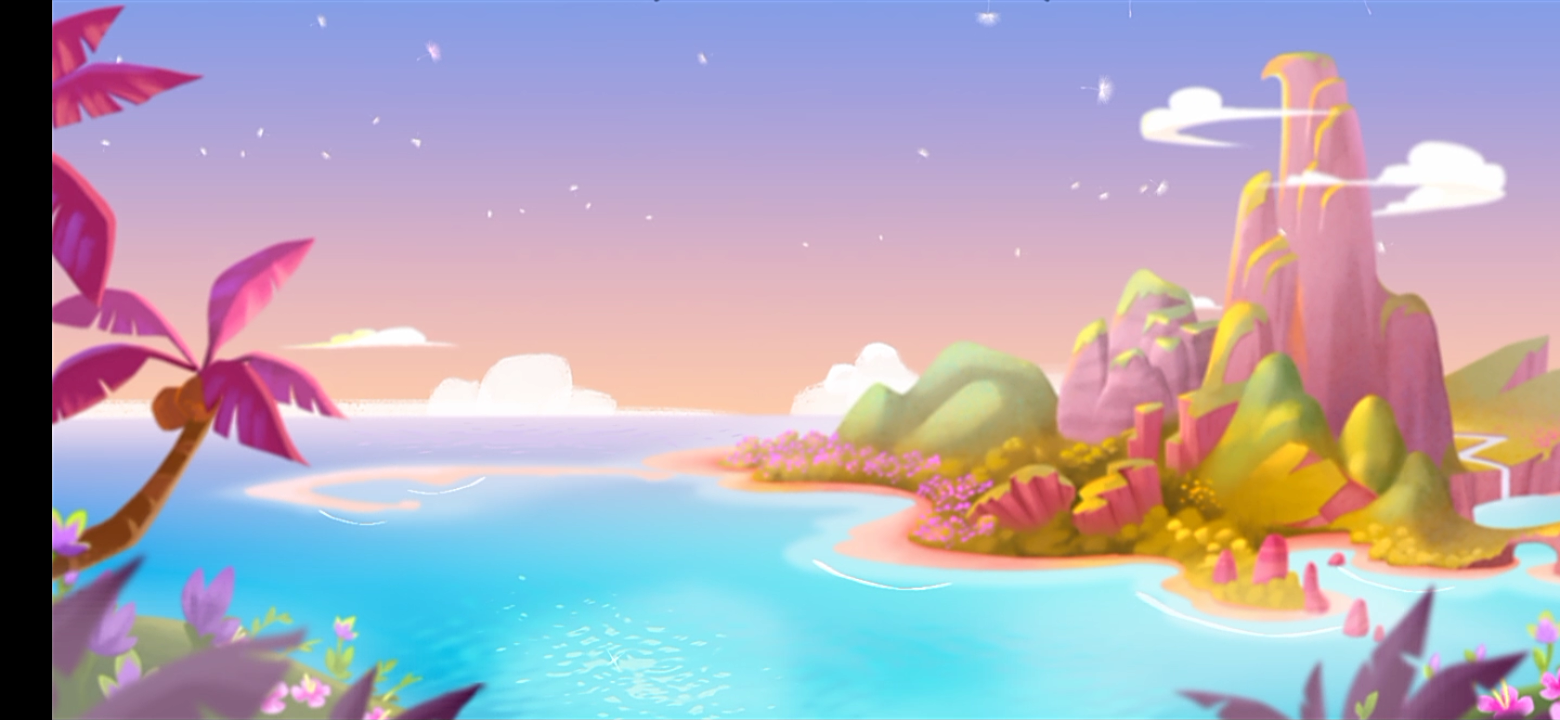
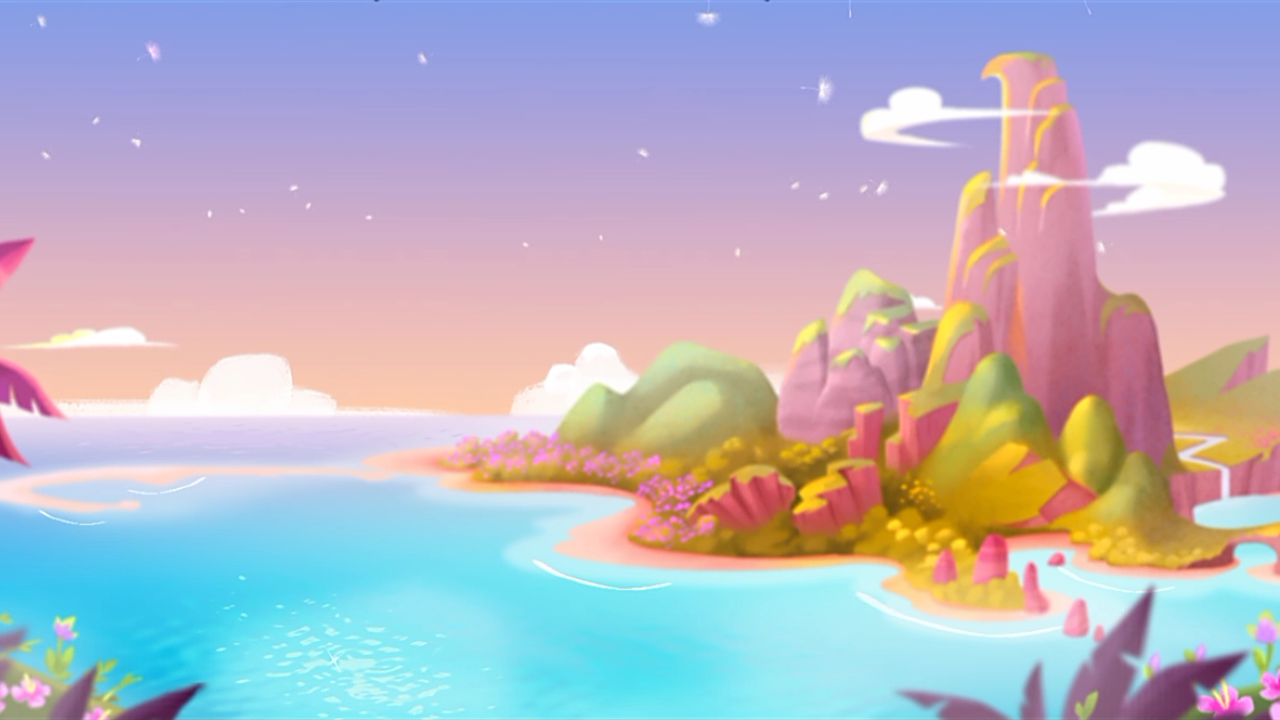
new homescreen

diff --git a/core/src/main/java/com/game/angrybirds/screens/Homescreen.java b/core/src/main/java/com/game/angrybirds/screens/Homescreen.java
@@ -21,12 +21,12 @@ public class Homescreen implements Screen, InputProcessor {
 
     public Homescreen(Main game) {
         this.game = game;
-        background = new Texture("home.png");
+        background = new Texture("home2.jpg");
         playBtn = new Texture("play.png");
         exitBtn = new Texture("exit.png");
 
-        playBtnBounds = new Rectangle(540, 350, 250, 125);
-        exitBtnBounds = new Rectangle(540, 250, 250, 125);
+        playBtnBounds = new Rectangle(520, 250, 250, 125);
+        exitBtnBounds = new Rectangle(520, 150, 250, 125);
         touchPos = new Vector3();
 
         Gdx.input.setInputProcessor(this);
@@ -41,12 +41,12 @@ public class Homescreen implements Screen, InputProcessor {
     public void render(float delta) {
         Gdx.gl.glClearColor(1f,1f,1f,1);
         Gdx.gl.glClear(GL20.GL_COLOR_BUFFER_BIT);
-        float xOffset = (1560-1280)/2f;
+//        float xOffset = (1560-1280)/2f;
 
         game.getBatch().begin();
-        game.getBatch().draw(background,-xOffset,0,1560,720);
-        game.getBatch().draw(playBtn,540,350,250,125);
-        game.getBatch().draw(exitBtn,540,250,250,125);
+        game.getBatch().draw(background,0,0,1280,720);
+        game.getBatch().draw(playBtn,520,250,250,125);
+        game.getBatch().draw(exitBtn,520,150,250,125);
         game.getBatch().end();
     }
 

diff --git a/core/src/main/java/com/game/angrybirds/screens/GameOver.java b/core/src/main/java/com/game/angrybirds/screens/GameOver.java
@@ -10,7 +10,7 @@ import com.badlogic.gdx.math.Rectangle;
 import com.badlogic.gdx.math.Vector3;
 import com.game.angrybirds.Main;
 
-public class GameEnd implements Screen, InputProcessor {
+public class GameOver implements Screen, InputProcessor {
     private final Main game;
     private Texture pigLaugh;
     private Texture retryBtn;
@@ -20,7 +20,7 @@ public class GameEnd implements Screen, InputProcessor {
     private Rectangle exitBtnBounds;
     private Vector3 touchPos;
 
-    GameEnd(Main game) {
+    GameOver(Main game) {
         this.game = game;
         pigLaugh = new Texture("piglaugh2.png");
         retryBtn = new Texture("retry.png");

diff --git a/core/src/main/java/com/game/angrybirds/screens/ChooseLevel.java b/core/src/main/java/com/game/angrybirds/screens/ChooseLevel.java
@@ -46,8 +46,7 @@ public class ChooseLevel implements Screen, InputProcessor {
         Gdx.gl.glClear(GL20.GL_COLOR_BUFFER_BIT);
 
         game.getBatch().begin();
-        float xOffset = (1560-1280)/2f;
-        game.getBatch().draw(background,-xOffset,0,1560,720);
+        game.getBatch().draw(background,0,0,1280,720);
         game.getBatch().draw(level1Btn,227,135,300,450);
         game.getBatch().draw(num1,310,300,128,128);
         game.getBatch().draw(level2Btn,757,135,300,450);

diff --git a/core/src/main/java/com/game/angrybirds/screens/Level1_Screen.java b/core/src/main/java/com/game/angrybirds/screens/Level1_Screen.java
@@ -37,7 +37,7 @@ public class Level1_Screen extends InputAdapter implements Screen {
 
         // Set up touch point and pause button bounds
         touchPoint = new Vector3();
-        pauseBtnBounds = new Rectangle(10, 10, 50, 50); // Set bounds for the pause button
+        pauseBtnBounds = new Rectangle(1220, 660, 50, 50); // Set bounds for the pause button
     }
 
     @Override
